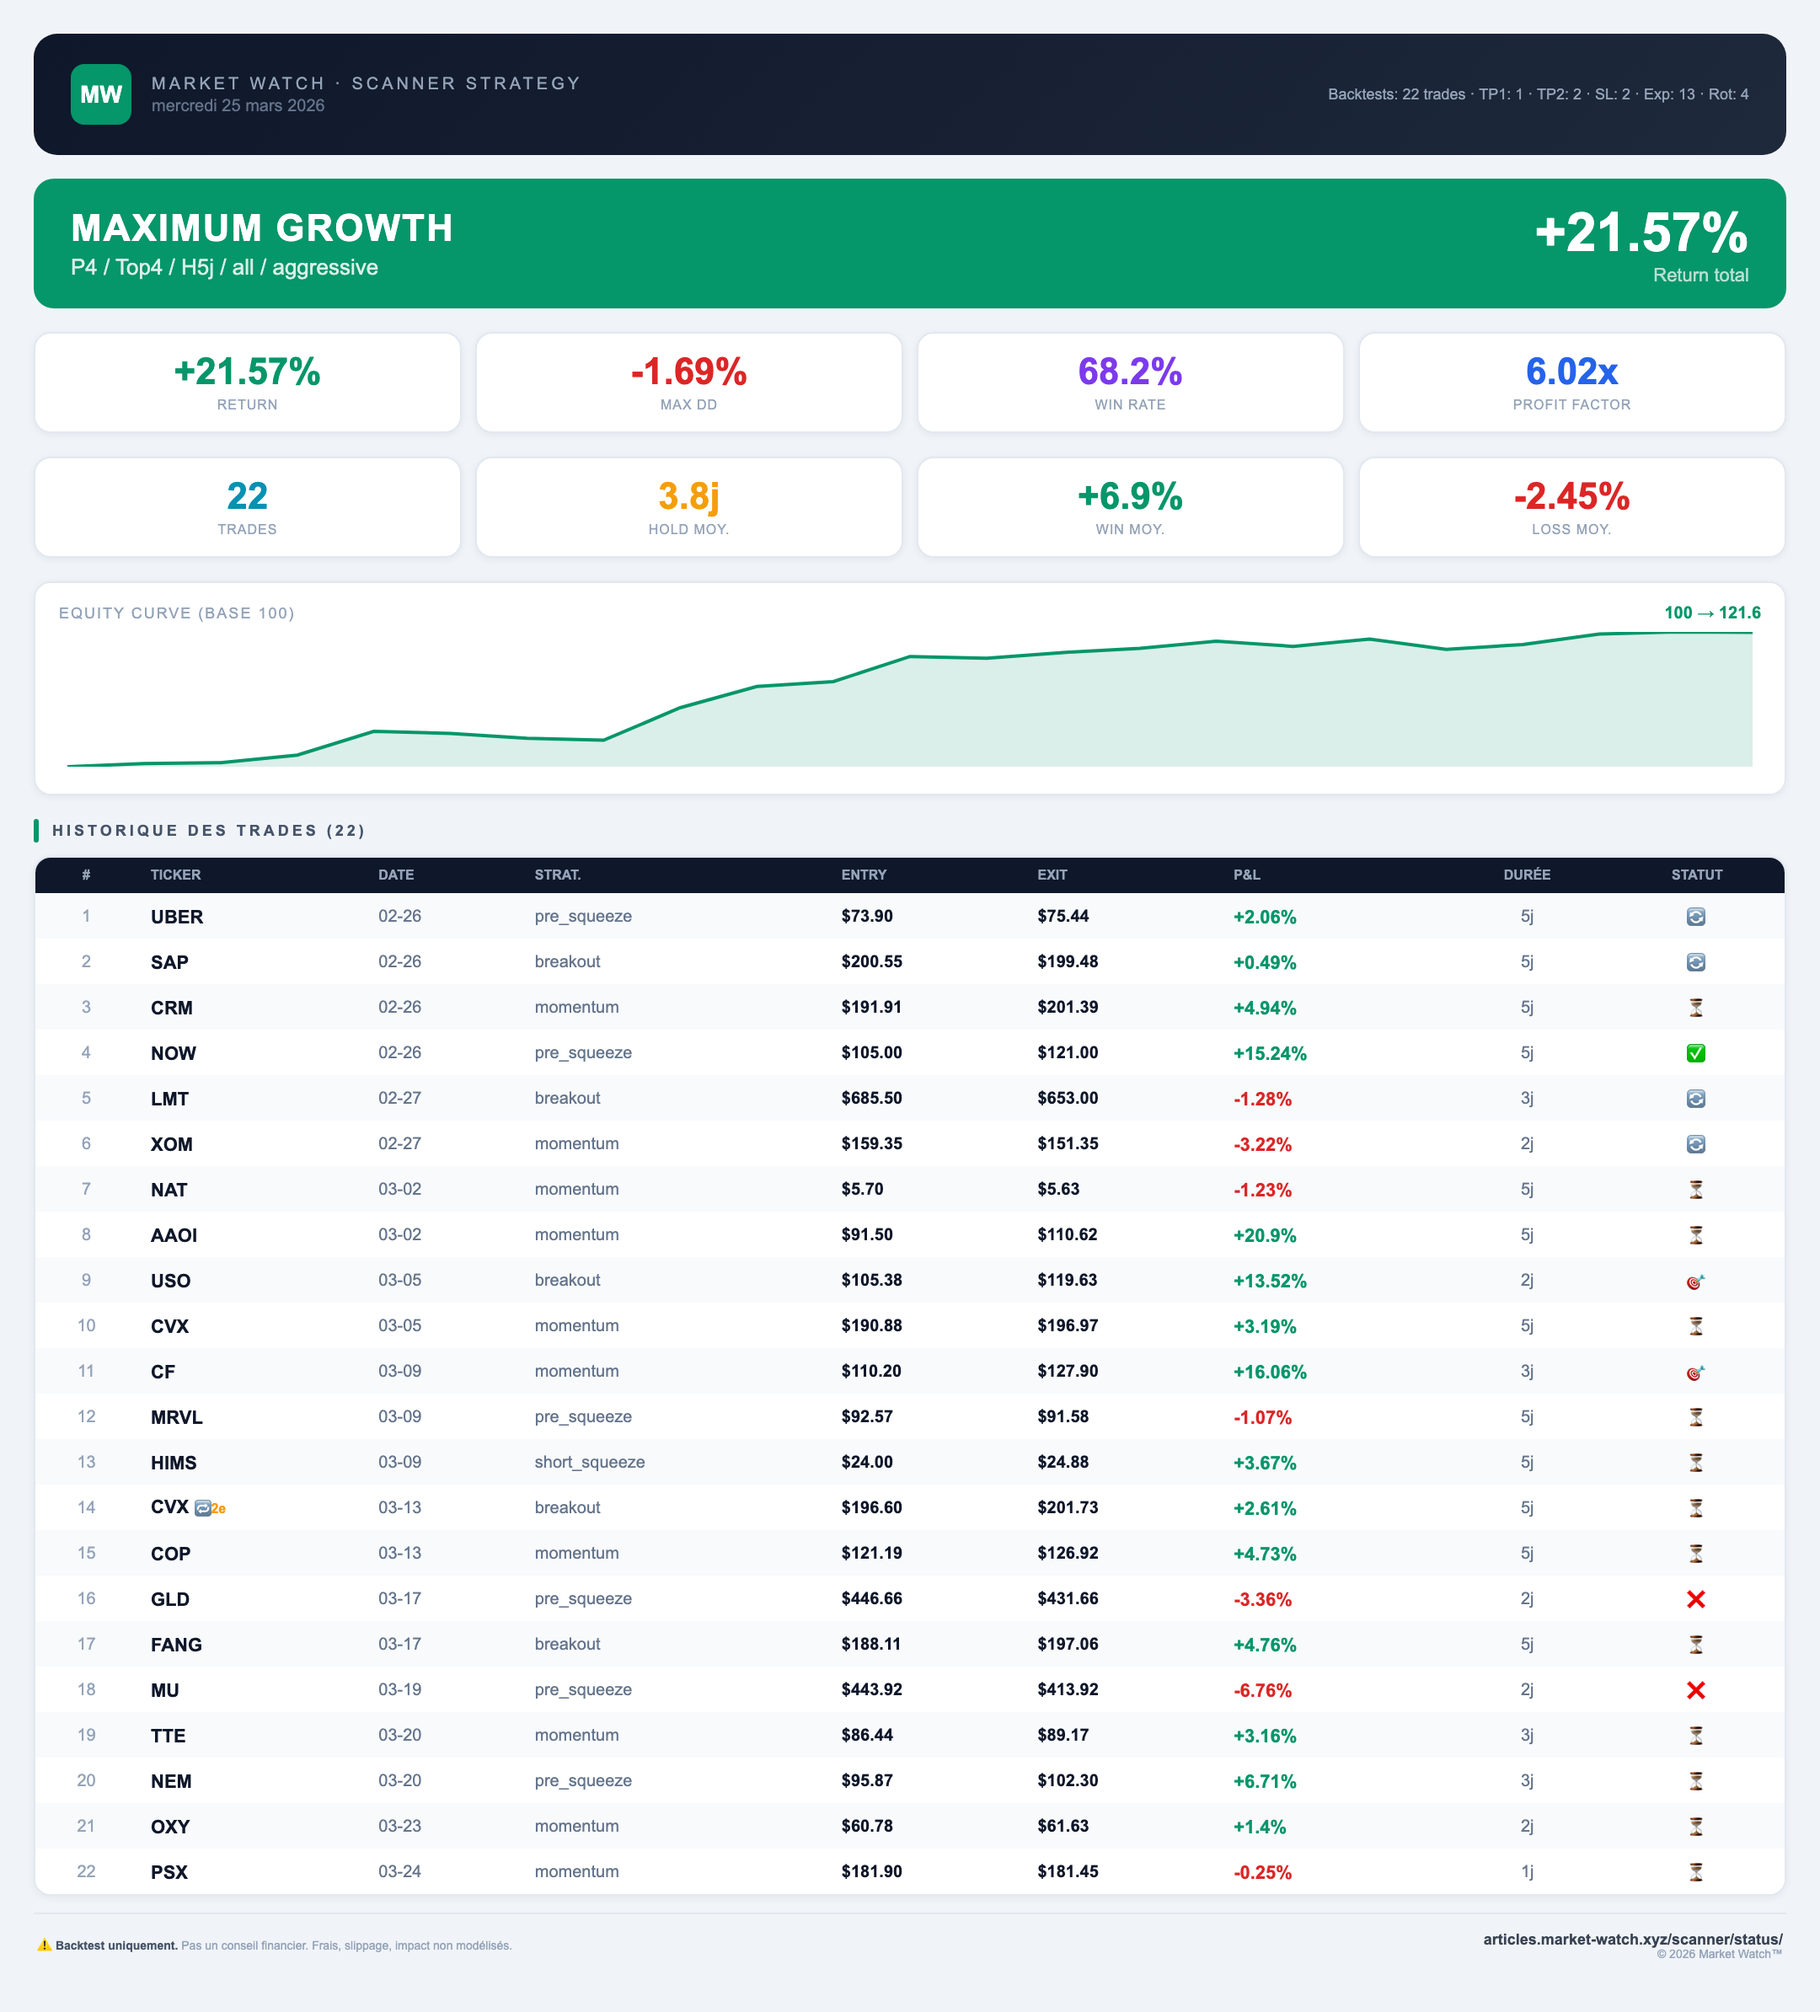
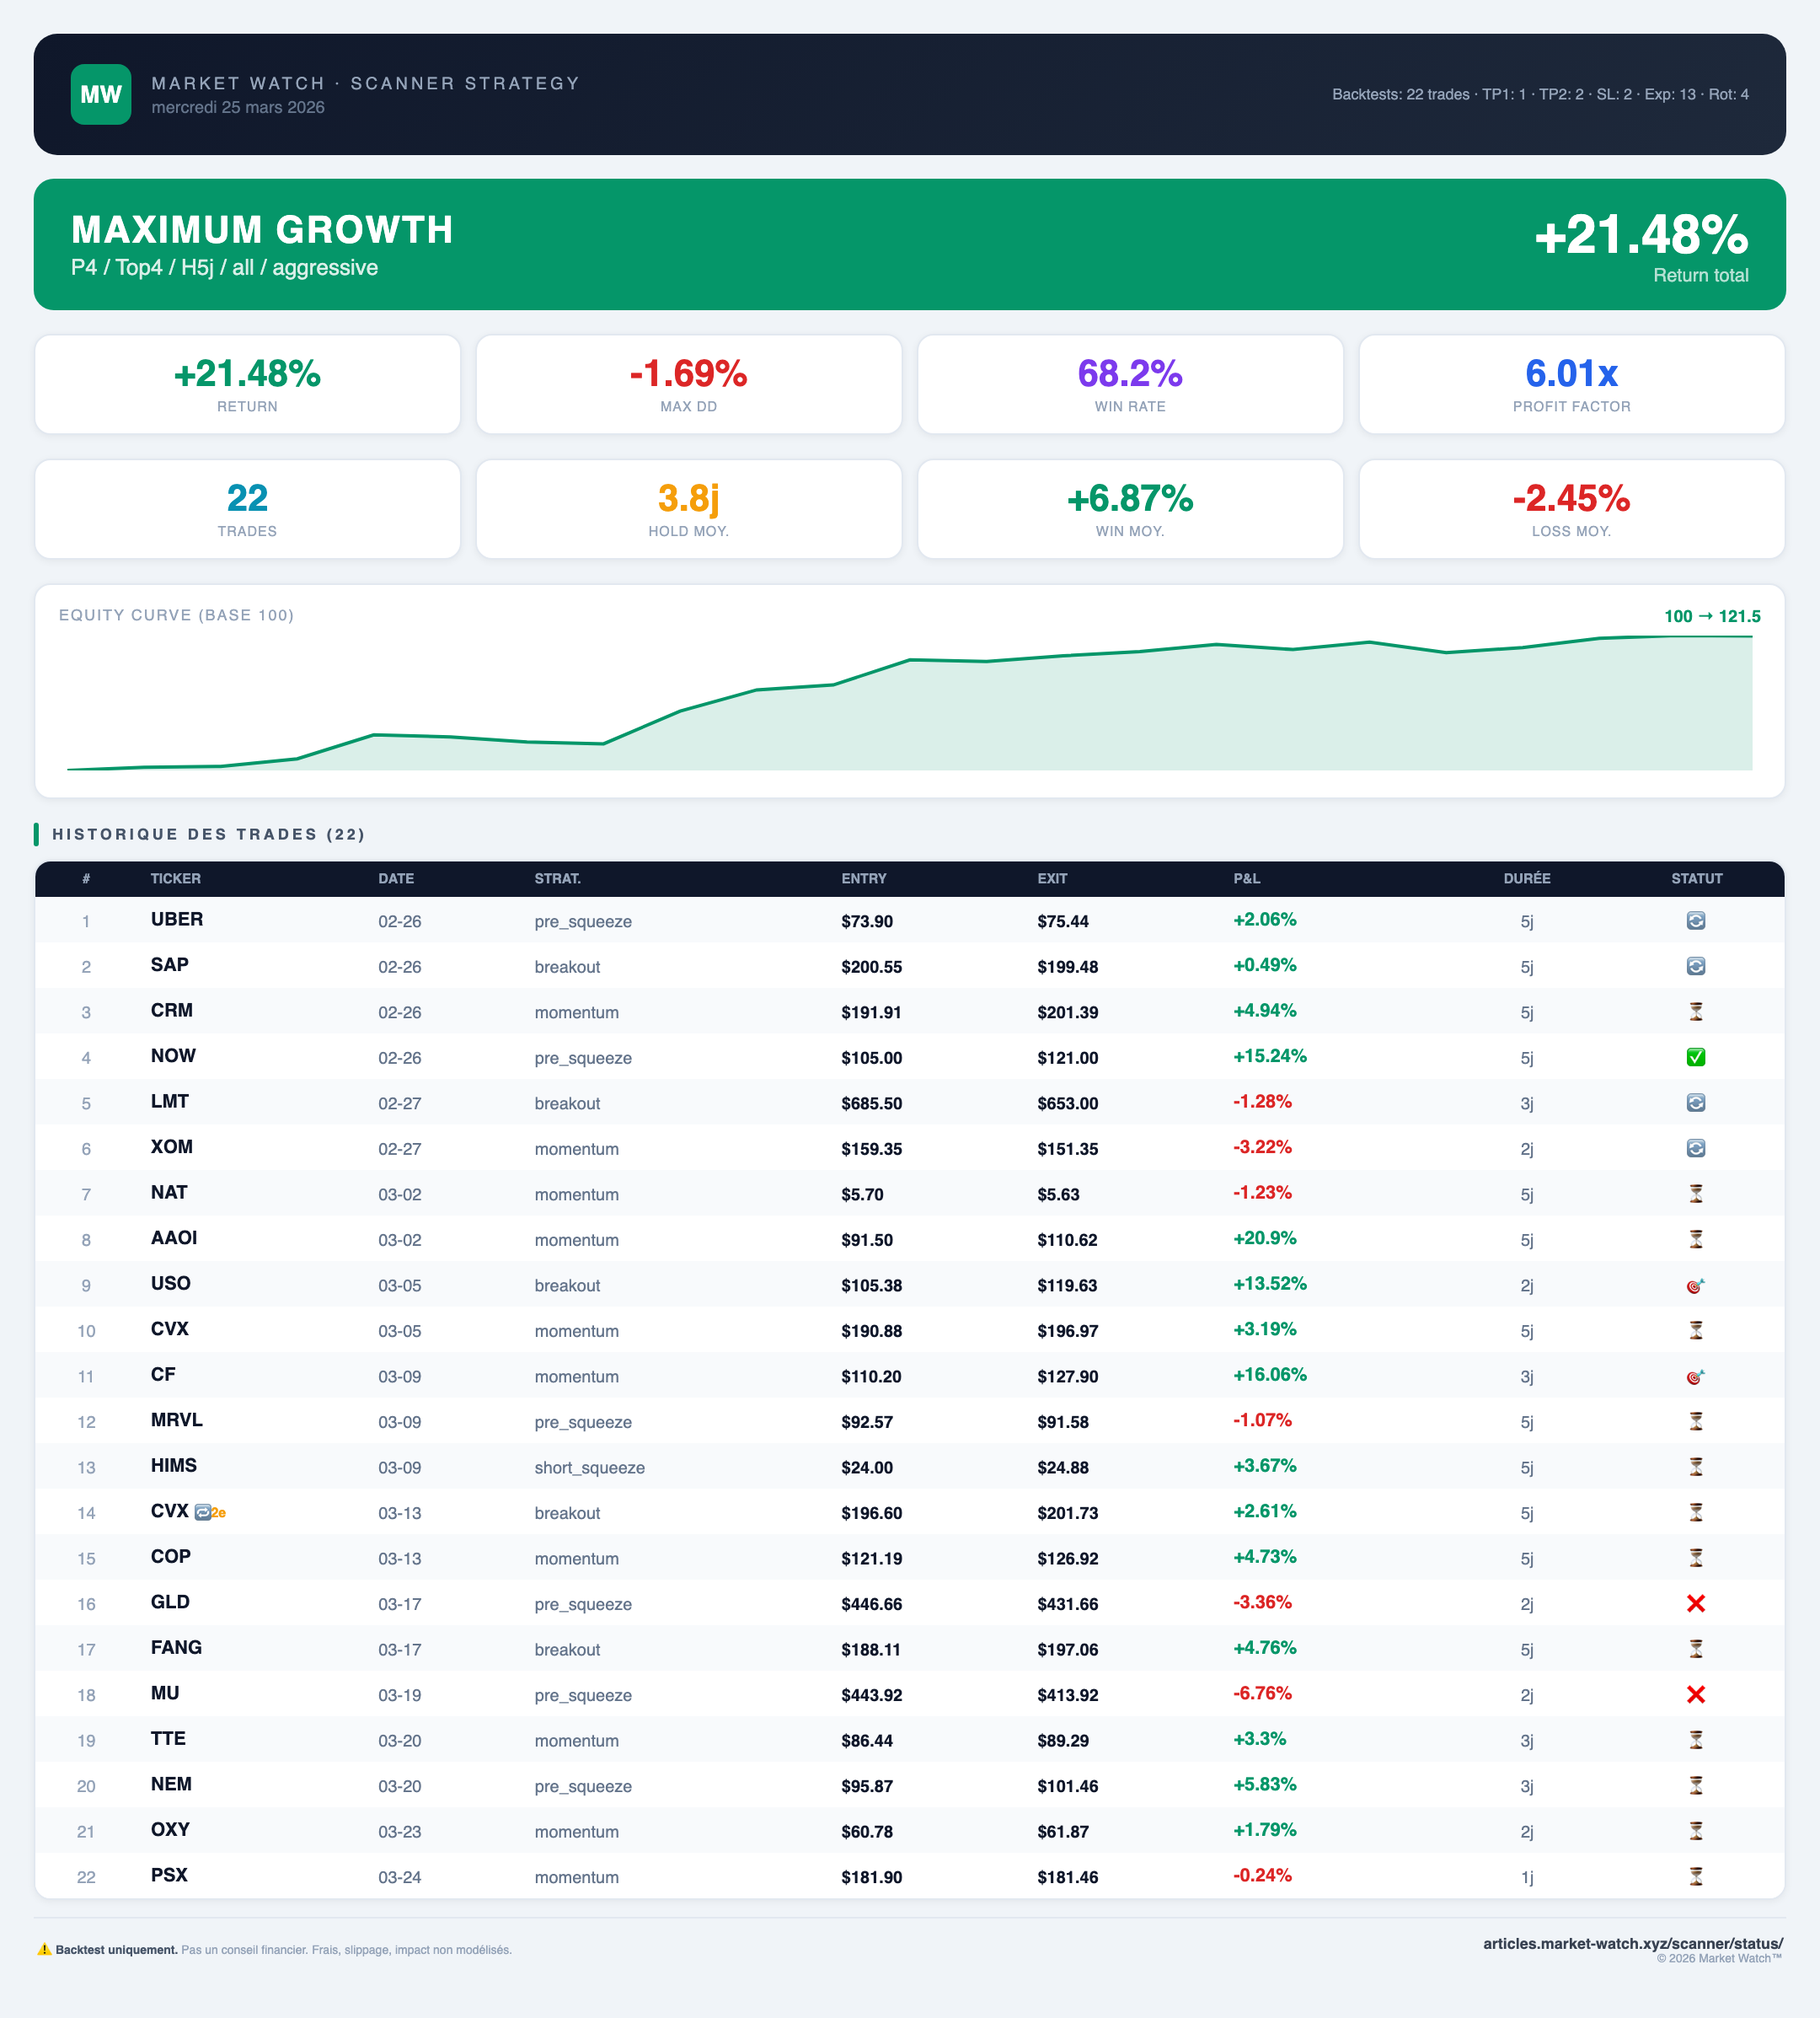
fix: scanner mode cards properly regenerated (headless:true + 2x retina)
- Fixed puppeteer: headless:true + domcontentloaded (was hanging on networkidle0)
- 2x retina 2160px width images restored
- growth: 22 trades +21.48%, calmar: 19 trades +13.86%, zero: 19 trades +23.1%

diff --git a/tools/gen-3-cards.js b/tools/gen-3-cards.js
@@ -231,11 +231,11 @@ async function main() {
 
     const html = buildCardHTML(id, cfg, trades, m);
 
-    const browser = await puppeteer.launch({ headless: 'shell', args: ['--no-sandbox', '--disable-setuid-sandbox', '--disable-dev-shm-usage', '--disable-gpu'], protocolTimeout: 120000 });
+    const browser = await puppeteer.launch({ headless: true, args: ['--no-sandbox', '--disable-setuid-sandbox', '--disable-dev-shm-usage', '--disable-gpu', '--disable-software-rasterizer'], protocolTimeout: 120000 });
     const page = await browser.newPage();
     await page.setViewport({ width: 1080, height: 3000, deviceScaleFactor: 2 });
-    await page.setContent(html, { waitUntil: 'networkidle0' });
-    await new Promise(r => setTimeout(r, 800));
+    await page.setContent(html, { waitUntil: 'domcontentloaded', timeout: 60000 });
+    await new Promise(r => setTimeout(r, 2000));
     const clip = await page.evaluate(() => {
       const el = document.body.firstElementChild;
       return { x: 0, y: 0, width: 1080, height: Math.ceil(el.getBoundingClientRect().height) };
